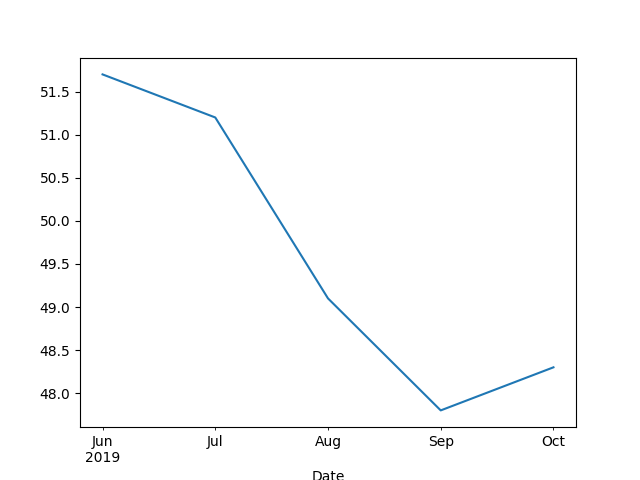
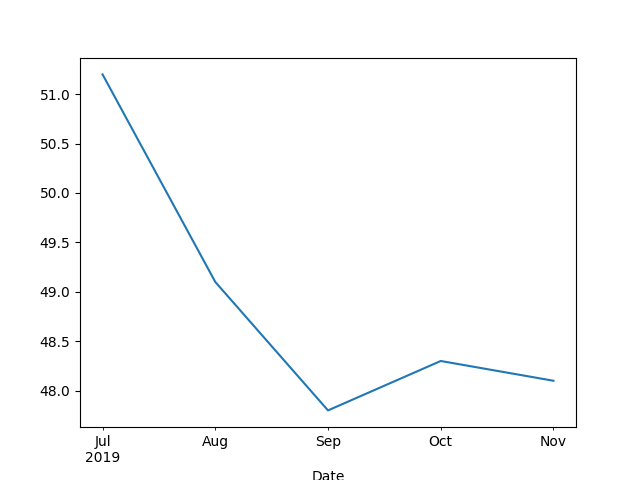
-

diff --git a/en/2019/05/stats.md b/en/2019/05/stats.md
@@ -190,9 +190,9 @@ plt.savefig('pmi.png')
 
 ```text
 Date
-2019-08-01    49.1
 2019-09-01    47.8
 2019-10-01    48.3
+2019-11-01    48.1
 Name: PMI, dtype: float64
 ```
 
